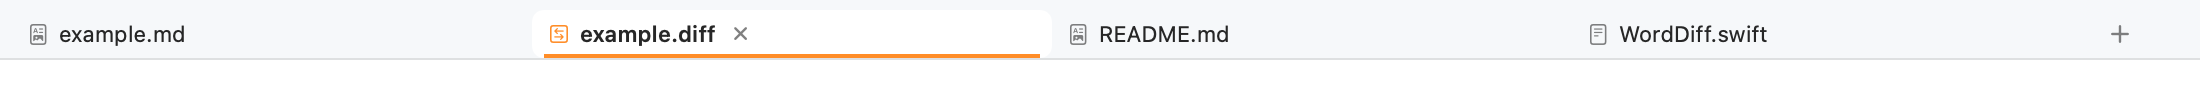
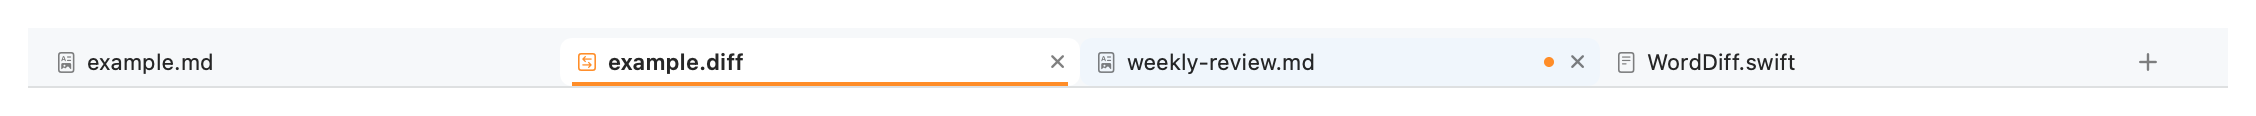
Release 2.0.0, and regenerate the screenshots
2.0.0 rather than 1.1.0. Nothing from 1.0 was removed or changed underneath
anyone, so semver would allow a minor — but Folio was a viewer and now commits,
pushes and edits files in your repository. As a signal to someone deciding
whether to download it, the major number is the honest one, and the changelog
says why in a line above the entries.

The screenshots had gone stale, which a release would have shipped. tabs.png
still showed the close button against the tab's title, where it sat before it
moved to the trailing edge. Everything the README describes from this release —
the status pill, the history list, groups — had no picture at all.

They are now generated rather than made by hand:

    FOLIO_SCREENSHOTS=Docs swift test --filter ScreenshotTests

ScreenshotTests composes them from the app's own views, so they can be redone
whenever a control moves, which is what would have prevented this. The suite is
skipped unless the variable is set, writes nothing on an ordinary run — checked
by comparing bytes before and after — and CONTRIBUTING says to add a picture
there rather than by hand.

Two of them were wrong on the first pass and were fixed by looking: the group
pill stretched to its 200pt maximum where the real toolbar item hugs its text,
and the tab strip had lost the button that opens another document.

editor.png and outline-folding.png were checked and left alone; they show
pieces that have not changed.

diff --git a/Tests/FolioTests/ScreenshotTests.swift b/Tests/FolioTests/ScreenshotTests.swift
@@ -1,0 +1,177 @@
+import AppKit
+import SwiftUI
+import Testing
+
+@testable import Folio
+
+/// Regenerates the screenshots in `Docs/`.
+///
+/// Off unless asked for, because it writes files:
+///
+///     FOLIO_SCREENSHOTS=Docs swift test --filter Screenshots
+///
+/// They are rendered from the app's own views rather than captured from a window, which
+/// is the only option on a machine with no screen-recording permission — and has the
+/// happy side effect of making them reproducible. Views that come out blank offscreen
+/// (`Menu`, `ScrollView`, `List`) are composed from the pieces inside them instead, which
+/// is why several of those pieces are not private.
+@MainActor
+@Suite("Screenshots", .serialized,
+       .enabled(if: ProcessInfo.processInfo.environment["FOLIO_SCREENSHOTS"] != nil))
+struct ScreenshotTests {
+
+    private var folder: URL {
+        URL(fileURLWithPath: ProcessInfo.processInfo.environment["FOLIO_SCREENSHOTS"]!)
+    }
+
+    private func write(_ name: String, width: CGFloat,
+                       @ViewBuilder _ content: () -> some View) throws {
+        let renderer = ImageRenderer(content:
+            content()
+                .frame(width: width)
+                .padding(14)
+                .background(Color(.windowBackgroundColor)))
+        renderer.scale = 2
+        let image = try #require(renderer.nsImage)
+        let tiff = try #require(image.tiffRepresentation)
+        let png = try #require(NSBitmapImageRep(data: tiff)?
+            .representation(using: .png, properties: [:]))
+        try png.write(to: folder.appendingPathComponent("\(name).png"))
+    }
+
+    private func tab(_ name: String, _ content: DocumentContent = .markdown,
+                     group: String? = nil, dirty: Bool = false) -> DocumentTab {
+        let tab = DocumentTab(url: URL(fileURLWithPath: "/Users/you/notes/\(name)"),
+                              content: content)
+        tab.group = group
+        if dirty { tab.draftText = "edited" }
+        return tab
+    }
+
+    private func snapshot(_ state: GitSnapshot.FileState, ahead: Int = 0, behind: Int = 0,
+                          added: Int = 0, removed: Int = 0,
+                          branch: String? = "main") -> GitSnapshot {
+        GitSnapshot(root: URL(fileURLWithPath: "/Users/you/notes", isDirectory: true),
+                    branch: branch, upstream: "origin/main", behind: behind, ahead: ahead,
+                    fileState: state, addedLines: added, removedLines: removed,
+                    hasIdentity: true)
+    }
+
+    // MARK: - The pictures
+
+    @Test func tabs() throws {
+        let state = AppState()
+        try write("tabs", width: 1100) {
+            HStack(spacing: 0) {
+                TabChip(tab: tab("example.md"), isActive: false, isHovered: false,
+                        isDragging: false, minimumWidth: 84, maximumWidth: 260)
+                TabChip(tab: tab("example.diff", .diff), isActive: true, isHovered: false,
+                        isDragging: false, minimumWidth: 84, maximumWidth: 260)
+                TabChip(tab: tab("weekly-review.md", dirty: true), isActive: false,
+                        isHovered: true, isDragging: false,
+                        minimumWidth: 84, maximumWidth: 260)
+                TabChip(tab: tab("WordDiff.swift", .source), isActive: false,
+                        isHovered: false, isDragging: false,
+                        minimumWidth: 84, maximumWidth: 260)
+                Image(systemName: "plus")
+                    .font(.system(size: 11, weight: .medium))
+                    .frame(width: 28, height: 26)
+                    .foregroundStyle(.secondary)
+                Spacer(minLength: 0)
+            }
+            .padding(.horizontal, 6)
+            .padding(.top, 4)
+            .background(Theme.gutterBackground)
+            .overlay(alignment: .bottom) { Divider() }
+            .environment(state)
+        }
+    }
+
+    @Test func gitStatus() throws {
+        func row(_ caption: String, _ label: GitStatusLabel) -> some View {
+            HStack(spacing: 12) {
+                Text(caption)
+                    .font(.system(size: 10)).foregroundStyle(.tertiary)
+                    .frame(width: 150, alignment: .trailing)
+                label
+                Spacer(minLength: 0)
+            }
+        }
+        try write("git-status", width: 420) {
+            VStack(alignment: .leading, spacing: 7) {
+                row("nothing to do", GitStatusLabel(snapshot: snapshot(.committed)))
+                row("two commits to push",
+                    GitStatusLabel(snapshot: snapshot(.committed, ahead: 2)))
+                row("edited since the commit",
+                    GitStatusLabel(snapshot: snapshot(.modified, added: 12, removed: 3)))
+                row("edits still in the editor",
+                    GitStatusLabel(snapshot: snapshot(.committed), hasUnsavedEdits: true))
+                row("not in the repository yet",
+                    GitStatusLabel(snapshot: snapshot(.untracked)))
+                row("an unfinished merge",
+                    GitStatusLabel(snapshot: snapshot(.conflicted, ahead: 1, behind: 3)))
+            }
+        }
+    }
+
+    @Test func history() throws {
+        let day: TimeInterval = 86_400
+        func commit(_ subject: String, ago: TimeInterval, hash: String,
+                    _ coAuthors: [String] = []) -> GitCommitSummary {
+            GitCommitSummary(hash: hash, shortHash: hash, author: "You",
+                             date: Date().addingTimeInterval(-ago), subject: subject,
+                             path: "weekly-review.md", coAuthors: coAuthors)
+        }
+        try write("history", width: 300) {
+            VStack(alignment: .leading, spacing: 2) {
+                CommitRow(commit: commit("Draft this week's retrospective", ago: 2 * 3600,
+                                         hash: "a1b2c3d",
+                                         ["Claude Opus 5 <noreply@anthropic.com>"]),
+                          isCurrent: false, isFirst: true)
+                CommitRow(commit: commit("Rewrite the summary in my own words",
+                                         ago: 3 * day, hash: "9f8e7d6"),
+                          isCurrent: true, isFirst: false)
+                CommitRow(commit: commit("Add the outcomes section", ago: 40 * day,
+                                         hash: "0011223",
+                                         ["Claude Opus 5 <noreply@anthropic.com>"]),
+                          isCurrent: false, isFirst: false)
+            }
+        }
+    }
+
+    @Test func groups() throws {
+        let state = AppState()
+        try write("groups", width: 620) {
+            VStack(alignment: .leading, spacing: 10) {
+                HStack(spacing: 10) {
+                    Text("in the title bar")
+                        .font(.system(size: 10)).foregroundStyle(.tertiary)
+                        .frame(width: 120, alignment: .trailing)
+                    GroupPickerLabel(group: "Acme rollout")
+                        .fixedSize()
+                        .padding(.horizontal, 8).padding(.vertical, 4)
+                        .background(Theme.gutterBackground,
+                                    in: RoundedRectangle(cornerRadius: 6))
+                    Spacer(minLength: 0)
+                }
+                HStack(spacing: 10) {
+                    Text("the tabs it shows")
+                        .font(.system(size: 10)).foregroundStyle(.tertiary)
+                        .frame(width: 120, alignment: .trailing)
+                    HStack(spacing: 0) {
+                        TabChip(tab: tab("brief.md", group: "Acme rollout"),
+                                isActive: true, isHovered: false, isDragging: false,
+                                minimumWidth: 84, maximumWidth: 200)
+                        TabChip(tab: tab("timeline.md", group: "Acme rollout"),
+                                isActive: false, isHovered: false, isDragging: false,
+                                minimumWidth: 84, maximumWidth: 200)
+                        Spacer(minLength: 0)
+                    }
+                    .padding(.horizontal, 6).padding(.top, 4)
+                    .background(Theme.gutterBackground)
+                }
+            }
+            .environment(state)
+        }
+    }
+}

diff --git a/CONTRIBUTING.md b/CONTRIBUTING.md
@@ -43,7 +43,8 @@ in the project and adding a second needs a good argument.
 git clone https://github.com/rwijnen/folio-viewer.git
 cd folio-viewer
 swift build          # compile
-swift test           # 354 tests, ~15 seconds
+swift test           # 354 tests, ~15 seconds (plus 4 screenshot
+                     # generators, skipped unless asked for)
 ./build.sh           # assemble build/Folio.app
 open -a build/Folio.app Samples/example.md
 ```
@@ -150,6 +151,17 @@ Please do not send a UI change with "looks right to me" as the only evidence. Tw
 techniques in this repo let you actually look at the result, both of which work
 headlessly:
 
+**The screenshots in `Docs/`** are generated from the app's own views, not captured from
+a window, so they can be regenerated whenever a view changes:
+
+```bash
+FOLIO_SCREENSHOTS=Docs swift test --filter ScreenshotTests
+```
+
+`Tests/FolioTests/ScreenshotTests.swift` composes them. Add a picture there rather than by
+hand, or it goes stale the next time someone moves a control — which is exactly what
+happened to the tab bar.
+
 **SwiftUI views** — render them offscreen with `ImageRenderer`. Note that `ScrollView`,
 `List` and other AppKit-backed views come out blank, so rasterise the inner row or content
 stack instead. The screenshots in `Docs/` were produced this way and are labelled as such.
@@ -250,7 +262,7 @@ the old answer, which produced a convincing false negative before the retries ex
 1. Update `CHANGELOG.md` — move items out of *Unreleased* into the new version.
 2. Bump `CFBundleShortVersionString` and `CFBundleVersion` in `Resources/Info.plist`.
 3. `swift test && ./build.sh` one more time.
-4. Tag and push: `git tag -a v1.2.0 -m "Folio 1.2.0" && git push origin v1.2.0`.
+4. Tag and push: `git tag -a v2.1.0 -m "Folio 2.1.0" && git push origin v2.1.0`.
 
 Pushing a `v*` tag is the only thing that publishes a release; merging to `main` runs CI
 and stops there. The workflow refuses to publish unless the tag matches

diff --git a/README.md b/README.md
@@ -125,6 +125,8 @@ a source file, whatever you have open. When there
 is nothing to do it is quiet — just `main`, and `↑`/`↓` for commits to push and pull. When
 there is, it says so in words and takes a colour: `main · +12 −3` for a file edited since
 the last commit, `unsaved` for edits still in the editor, `new file`, or `conflict`.
+
+![The status pill: quiet when there is nothing to do, and saying what it is when there is](Docs/git-status.png)
 Behind it are the only two things Folio will do to your repository. Editing is still
 Markdown-only; committing is not, because a patch or a script someone has just handed you
 is exactly the sort of thing you want to record.
@@ -172,6 +174,8 @@ opened patch gets, so the word-level highlighting, collapsible context, ⌘F and
 memory all work exactly as they do elsewhere. ⌥⌘↑ and ⌥⌘↓ step to the newer or older
 commit without going back to the list, and **Back to the Document** returns.
 
+![The history list: commits, with a badge naming the co-author where there is one](Docs/history.png)
+
 History lives in the document sidebar, so it is there for Markdown and source files but
 not for a diff, whose sidebar lists the files inside the patch instead. The log follows
 renames, so a file that started life as `draft.md` still shows the work you did under that
@@ -196,6 +200,8 @@ group to file the document there. Once a group exists, a dropdown appears beside
 document's name in the title bar: pick a project and the tab bar shows only its
 documents; pick **All documents** to see everything again. Each entry says how many it
 holds, and the menu says how many are not in a group.
+
+![A group selected in the title bar, and the tabs it shows](Docs/groups.png)
 
 Groups are yours to name and nothing is inferred. Folio does not group by folder, because
 a repository whose docs live in `guides/`, `reference/` and `adr/` is one project, not

diff --git a/CHANGELOG.md b/CHANGELOG.md
@@ -6,7 +6,11 @@ All notable changes to Folio are recorded here. The format follows
 
 ## [Unreleased]
 
-## [1.1.0] — 2026-09-10
+## [2.0.0] — 2026-09-10
+
+Folio was a viewer. It now writes to your repository — commits, pushes, and edits files —
+which is a different proposition from 1.0, and the reason for the major number rather than
+a minor one. Nothing in 1.0 was removed or changed underneath you.
 
 ### Added
 
@@ -218,6 +222,6 @@ in one window with tabs, without ever writing to your files or touching the netw
   asking Launch Services which app would open a probe file.
 - 109 tests over the model, tab and scroll layers, run with Swift Testing.
 
-[Unreleased]: https://github.com/rwijnen/folio-viewer/compare/v1.1.0...HEAD
-[1.1.0]: https://github.com/rwijnen/folio-viewer/compare/v1.0.0...v1.1.0
+[Unreleased]: https://github.com/rwijnen/folio-viewer/compare/v2.0.0...HEAD
+[2.0.0]: https://github.com/rwijnen/folio-viewer/compare/v1.0.0...v2.0.0
 [1.0.0]: https://github.com/rwijnen/folio-viewer/releases/tag/v1.0.0
